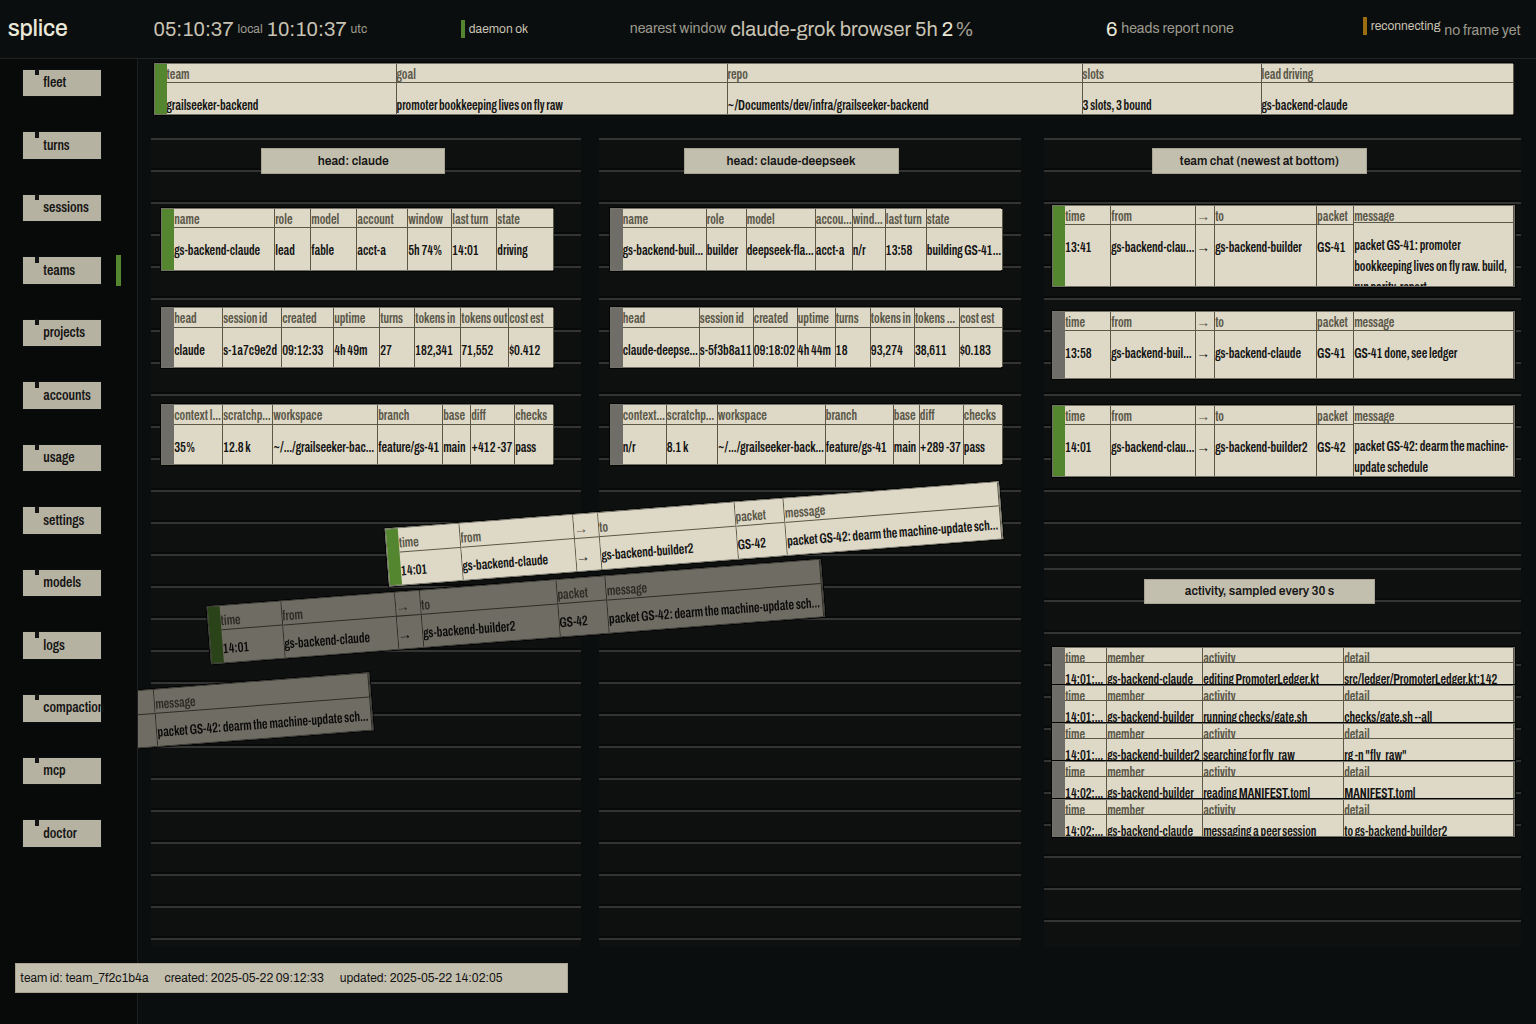
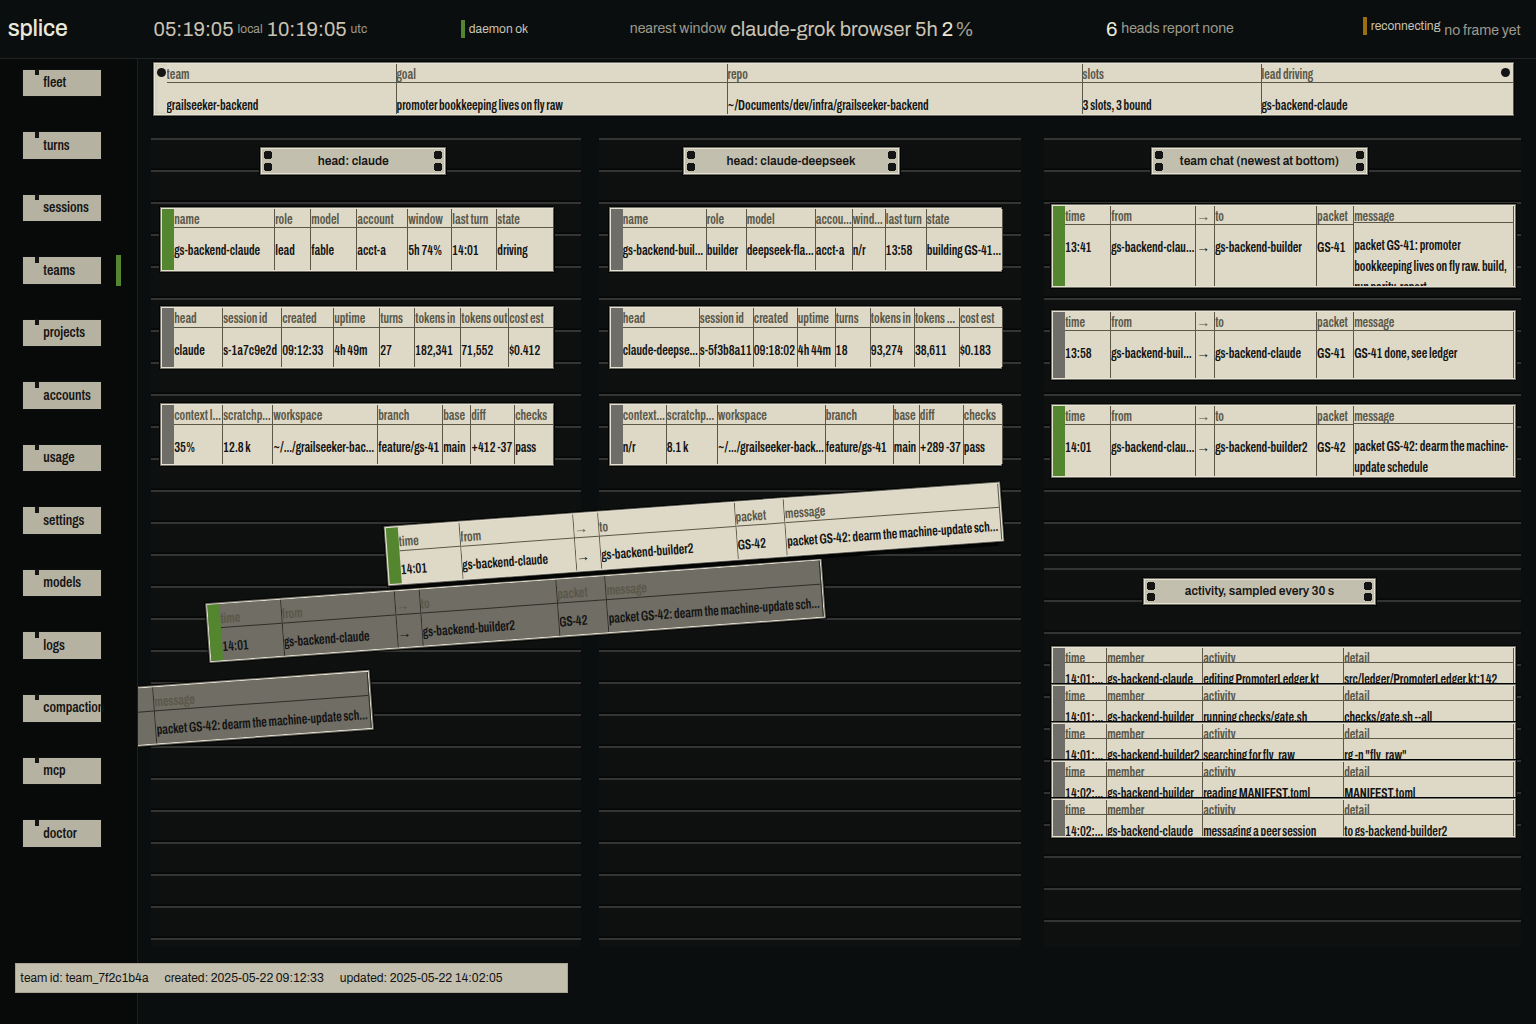
chore(webui): the quiesce sweep — three artifacts no live row can attest
The campaign is holding dispatch so the audit-fix gate of record can run against an empty
worktree. These three are what was left standing that no in-flight row fences, committed here
rather than reverted, with what each one is:

head-strip/strings.ts carries M1-69's vocabulary comment -- notBuilt and none named as
DIFFERENT FACTS, in the file a cell author edits. Sound work that its own receipt did not
list, so 449d1b8b landed the row without it. A comment-only change; the row's behaviour is
already in history.

review/rule/teams-after.png and review/rule/fleet-live.png are capture output. M1-30 and M1-53
fence that directory and both are closed, so these were regenerated by a later run with no row
to attest them. Kept because they are the current picture and a stale one is worse than none --
M1-68 spent a row proving exactly that about a directory of eight-hour-old captures.

Deliberately NOT swept: dev/web-console/{capture,scan,type-ladder}.mjs and
review/type-ladder/ladder.txt belong to M1-76, which is live. Committing another seat's
in-flight work under a message that does not describe it is what happened to M1-71 an hour ago,
from the other side of the same shared index.

diff --git a/webui/src/widgets/head-strip/strings.ts b/webui/src/widgets/head-strip/strings.ts
@@ -10,6 +10,11 @@ export const S = {
   inflight: 'in flight',
   window: 'window',
   turn: 'last turn',
+  /* THE VOCABULARY, in the file a cell author edits (M1-69). Each word is a DIFFERENT FACT:
+       notBuilt  `not built`  - it does not exist yet; the row that will build it is named elsewhere.
+       none      `none`       - the question was asked and its answer is nothing.
+     A cell with a value nobody reported prints the glyph (see the tables under pages/); a site whose
+     fact cannot be told from the code keeps the word it has and gets a note, never a guess. */
   notBuilt: 'not built',
   none: 'none',
 } as const;
